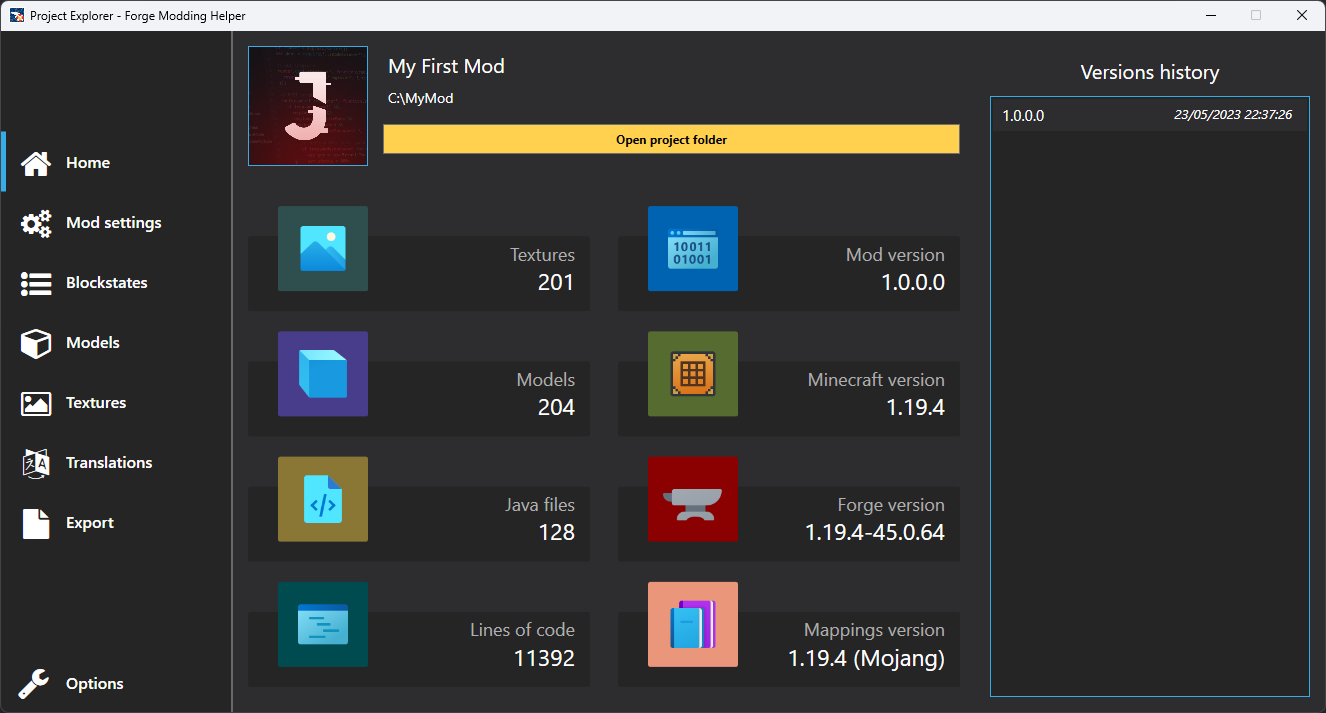
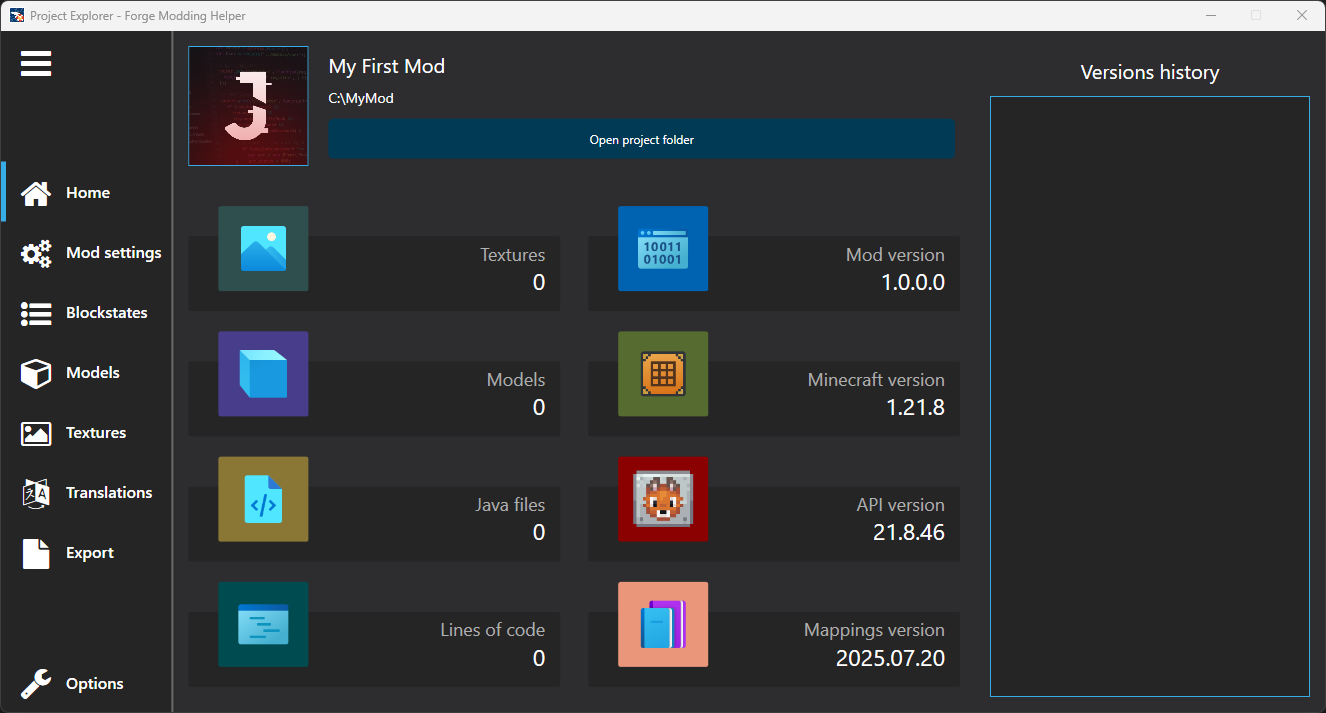
Updated Readme and screenshots Updated project versionning

diff --git a/FMH.Core/Utils/Software/SoftwareVersionUtils.cs b/FMH.Core/Utils/Software/SoftwareVersionUtils.cs
@@ -10,10 +10,10 @@ namespace FMH.Core.Utils.Software
     public static class SoftwareVersionUtils
     {
         // Define if the current version is a preview
-        private static bool IsPreview = true;
+        private static bool IsPreview = false;
 
         // If "IsPreview" is set to true, then the current version is the preview with this number
-        private static int PreviewNumber = 2;
+        private static int PreviewNumber = 0;
 
         /// <summary>
         /// Allow to get the current version of the software

diff --git a/README.md b/README.md
@@ -4,7 +4,7 @@
 [![GitHub All Releases](https://img.shields.io/github/downloads/jeremtech/Forge-Modding-Helper/total?color=green&style=flat-square)](https://github.com/JeremTech/Forge-Modding-Helper/releases)
 [![License](https://img.shields.io/github/license/jeremtech/Forge-Modding-Helper?style=flat-square)](https://github.com/JeremTech/Forge-Modding-Helper/blob/master/LICENSE)
 
-Forge Modding Helper is an utility software to manage Forge's Workspace.
+Forge Modding Helper is a utility software to manage Forge and NeoForge workspaces.
 
 ## Compatibility 
 Forge Modding Helper is available for Windows 10 and 11.
@@ -20,12 +20,12 @@ Latest version | Latest stable version
 
 - [x] Workspace creation wizard
 - [x] Existing workspace importation
-- [x] Show workspace's statistics
+- [x] Show workspace statistics
 - [x] Easy mod settings edition
 - [x] Explore and manage assets (models, textures, blockstates)
-- [x] Easy language file editing 
+- [x] Easy language file edition 
 - [x] Easy mod publication
-- [x] English and french translation
+- [x] English and French translations
 - [x] UI Themes
 
 ## Supported Minecraft versions
@@ -38,7 +38,6 @@ NeoForge|1.20.2, 1.20.4, 1.20.6, 1.21, 1.21.1, 1.21.3, 1.21.4, 1.21.5, 1.21.8
 ## Report bug or submit ideas
 
 You can report bugs or submit ideas in the [issues section](https://github.com/JeremTech/Forge-Modding-Helper/issues). Please check if your bug or idea have not already posted.
-You can also see in real-time the progression of the next update on the [Forge Modding Helper Trello](https://trello.com/b/4C7TwCta/forge-modding-helper) (in french).
 
 ## Screenshots
 
